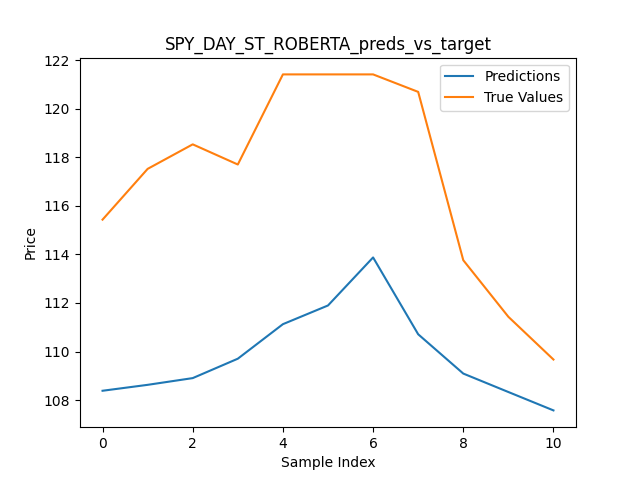
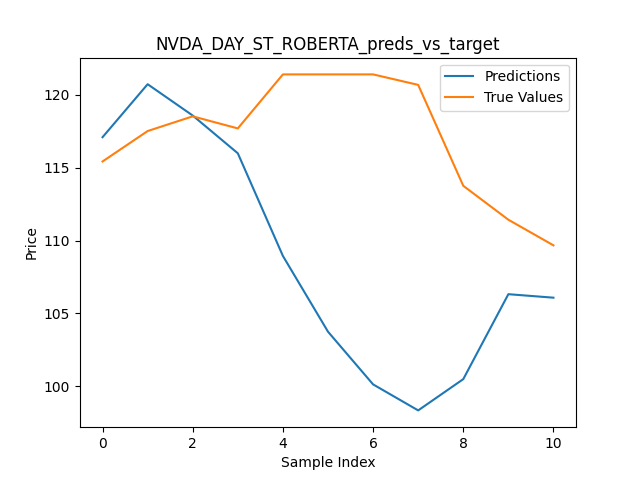
full price hist

diff --git a/train.py b/train.py
@@ -6,6 +6,7 @@ import numpy as np
 from transformers import AutoTokenizer, AutoModel
 import pandas as pd
 from sklearn.model_selection import train_test_split
+from sklearn.metrics import mean_squared_error
 from tqdm import tqdm 
 import os
 from dotenv import load_dotenv
@@ -13,7 +14,7 @@ load_dotenv()
 import warnings
 warnings.filterwarnings("ignore")
 
-from spark_utils import read_parquet, prep_spark, top_k_markets_per_day
+from data_processing.spark_utils import read_parquet, prep_spark, top_k_markets_per_day
 from encode import preprocess_markets
 from models import PriceLSTM
 
@@ -112,20 +113,32 @@ def evaluate(model, loader, epochs=20):
             x_batch, y_batch = x_batch.to(device), y_batch.to(device)
 
             preds = model(x_batch)
+            preds = preds.squeeze(-1)
             loss = loss_fn(preds, y_batch)
             total_loss += loss.item() * x_batch.size(0)
 
             all_preds.append(preds.cpu())
             all_targets.append(y_batch.cpu())
 
-        mse = total_loss / len(loader.dataset)
-        rmse = torch.sqrt(torch.tensor(mse))
-
         # flatten lists into tensors
-        preds   = torch.cat(all_preds, dim=0)
-        targets = torch.cat(all_targets, dim=0)
+        preds   = torch.cat(all_preds)
+        targets = torch.cat(all_targets)
 
-        return mse, rmse, preds, targets
+        mse  = torch.mean((preds - targets) ** 2)
+        rmse = torch.sqrt(mse)
+        accuracies  = compute_accuracy(preds, targets)
+
+        return mse, rmse, preds, targets, accuracies
+
+def compute_accuracy(preds, targets):
+    tolerance_rates = [0.25, 0.10, 0.05]
+    mask    = targets != 0
+    rel_err = torch.abs(preds[mask] - targets[mask]) / torch.abs(targets[mask])
+
+    accuracies = {f"within_{int(t*100)}%": torch.mean((rel_err <= t).float()).item()
+        for t in tolerance_rates}
+    print("Accuracies: ", accuracies)
+    return accuracies
 
 def plot_preds_vs_target(preds: np.ndarray, targets: np.ndarray, filename):
     """
@@ -145,13 +158,13 @@ if __name__ == "__main__":
 
     ticker = "NVDA"
     # ticker = "SPY"
-    start, end = "2025-01-01", "2025-03-28"
-    filename = "NVDA_DAY_ST_ROBERTA"
+    start, end = "2023-07-01", "2024-01-01"
+    filename = "NVDA_ND_NEWS_FINAL"
     load_model = False
     save = False
-    next_day = False
-    epochs = 2500
-    lr = 1e-4
+    next_day = True
+    epochs = 5000
+    lr = 1e-5
 
     #--------------- Load and prep data --------------------#
     data = read_parquet()
@@ -212,7 +225,7 @@ if __name__ == "__main__":
     # Load existing model?
     if load_model:
         torch.load(price_model.state_dict(), f"{filename}_model.pth")
-    mse, rmse, preds, y_true = evaluate(price_model, test_loader)
+    mse, rmse, preds, y_true, accuracies = evaluate(price_model, test_loader)
     print(f"Test  — MSE: {mse:.4f}, RMSE: {rmse:.4f}")
 
     preds  = preds * y_std + y_mean # scale back up

diff --git a/models.py b/models.py
@@ -11,17 +11,9 @@ class PriceLSTM(nn.Module):
             nn.Linear(Dprime, Dprime),
         )
 
-        # 2) GRU over days
-        self.gru = nn.GRU(
-            input_size=Dprime,
-            hidden_size=hidden_size,
-            num_layers=num_layers,
-            batch_first=True,
-        )
-
         # 2) LSTM over those day embeddings
         self.lstm = nn.LSTM(
-            input_size=hidden_size,
+            input_size=Dprime,
             hidden_size=hidden_size,
             num_layers=num_layers,
             batch_first=True,
@@ -53,8 +45,7 @@ class PriceLSTM(nn.Module):
         cnt   = mask.sum(dim=2).clamp(min=1e-3)        # (B, S, 1)
         day_embs = h_sum / cnt                        # (B, S, Dprime)
 
-        gru_out, _  = self.gru(day_embs)              # (B, S, gru_hidden)
-        lstm_out, (hn, _) = self.lstm(gru_out)              # hn[-1] is (B, hidden_size)
+        lstm_out, (hn, _) = self.lstm(day_embs)              # hn[-1] is (B, hidden_size)
 
         # map to price
         return self.regressor(hn[-1]).squeeze(-1)      # (B,)

diff --git a/encode.py b/encode.py
@@ -47,6 +47,12 @@ def preprocess_markets(
     mask = df["created_date"].between(start, end)
     df = df.loc[mask]
 
+    # news preds
+    news_df = pd.read_csv("news_sentiment_preds.csv")
+    news_df["date"] = pd.to_datetime(news_df["date"]).dt.date
+
+    df = df.merge(news_df, left_on="created_date", right_index=True, how="left").fillna({"average_prediction": 0})
+
     # 1) one-hot encode categoricals
     df = pd.get_dummies(df, columns=categorical_cols, drop_first=False)
     dummy_cols = [c for c in df.columns
@@ -110,7 +116,7 @@ def preprocess_markets(
 
 if __name__=="__main__":
     from transformers import AutoTokenizer, AutoModel
-    from spark_utils import read_parquet, prep_spark
+    from data_processing.spark_utils import read_parquet, prep_spark
 
     data = read_parquet()
 
